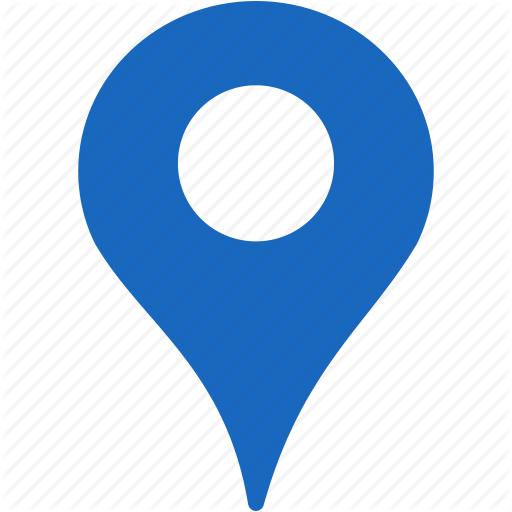
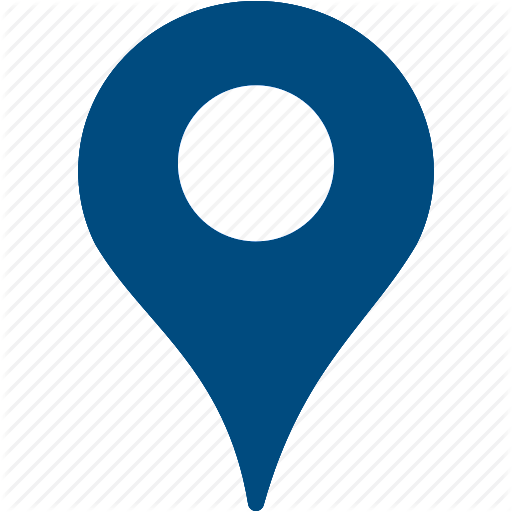
Merge pull request #67 from eea/develop
Develop

Pull request: Develop

diff --git a/src/components/Blocks/DemoSitesExplorer/DemoSitesMap.jsx b/src/components/Blocks/DemoSitesExplorer/DemoSitesMap.jsx
@@ -42,7 +42,7 @@ function DemoSitesMap(props) {
     setMap,
     highlightedIndex,
     setHighlightedIndex,
-    enableMarineMO,
+    mapVariation,
     ol,
   } = props;
   const features = getFeatures({ cases: items, ol });
@@ -135,8 +135,8 @@ function DemoSitesMap(props) {
   }, [map, selectedCase, resetMapButtonClass, setResetMapButtonClass, ol]);
 
   const clusterStyle = React.useMemo(
-    () => selectedClusterStyle({ selectedCase, ol, enableMarineMO }),
-    [selectedCase, ol, enableMarineMO],
+    () => selectedClusterStyle({ selectedCase, ol, mapVariation }),
+    [selectedCase, ol, mapVariation],
   );
 
   const MapWithSelection = React.useMemo(() => Map, []);
@@ -196,7 +196,9 @@ function DemoSitesMap(props) {
             // selectedCase={selectedCase}
           />
           <Layer.Tile source={tileWMSSources[0]} zIndex={0} />
-          {enableMarineMO && <Layer.Tile source={arcgisSource} zIndex={0} />}
+          {['blueParks', 'blueParksObj1'].includes(mapVariation) && (
+            <Layer.Tile source={arcgisSource} zIndex={0} />
+          )}
           <Layer.Vector
             style={clusterStyle}
             source={clusterSource}
@@ -209,7 +211,7 @@ function DemoSitesMap(props) {
   ) : null;
 }
 
-const selectedClusterStyle = ({ selectedFeature, ol, enableMarineMO }) => {
+const selectedClusterStyle = ({ selectedFeature, ol, mapVariation }) => {
   function _clusterStyle(feature, selectedFeature) {
     const size = feature.get('features').length;
     let clusterStyle = styleCache[size];
@@ -235,52 +237,64 @@ const selectedClusterStyle = ({ selectedFeature, ol, enableMarineMO }) => {
       });
       styleCache[size] = clusterStyle;
     }
-    // set size === 1 to enable clusterization
-    if (size) {
-      if (enableMarineMO) {
+    // use condition size === 1 to enable clusterization
+    if (true) {
+      let iconType = '-light';
+      let iconSize = 'icon';
+
+      if ('blueParks' === mapVariation) {
         return new ol.style.Style({
           image: new ol.style.Icon({
             anchor: [0.5, 1],
-            // size: [52, 52],
-            // offset: [52, 0],
-            // opacity: 1,
             scale: 0.8,
             src: '/marine/europe-seas/eu-mission-restore-our-oceans-and-water/icon-point.png/@@images/image/tiny',
           }),
         });
-      } else {
-        // let color = feature.values_.features[0].values_['color'];
-        // type_is_region
-        // let color = '#0179cf';
-        // let width = feature.values_.features[0].values_['width'];
-        // let radius = feature.values_.features[0].values_['radius'];
+      } else if ('blueParksObj1' === mapVariation) {
+        iconType = '-light';
+        iconSize = 'tiny';
 
-        // return new ol.style.Style({
-        //   image: new ol.style.Circle({
-        //     radius: radius,
-        //     fill: new ol.style.Fill({
-        //       color: '#fff',
-        //     }),
-        //     stroke: new ol.style.Stroke({
-        //       color: color,
-        //       width: width,
-        //     }),
-        //   }),
-        // });
-        let iconUrl =
-          feature.values_.features[0].values_['type_is_region'] ===
-          'Associated region'
-            ? '/marine/europe-seas/eu-mission-restore-our-oceans-and-water/icon-region.png/@@images/image/icon'
-            : '/marine/europe-seas/eu-mission-restore-our-oceans-and-water/icon-point.png/@@images/image/icon';
-
-        return new ol.style.Style({
-          image: new ol.style.Icon({
-            anchor: [0.5, 1],
-            scale: 0.8,
-            src: iconUrl,
-          }),
-        });
+        if (
+          ['BioProtect', 'BLUE CONNECT', 'BLUE4ALL', 'EFFECTIVE'].includes(
+            feature.values_.features[0].values_['project'],
+          )
+        ) {
+          iconType = '';
+          iconSize = 'tiny';
+        }
       }
+      // let color = feature.values_.features[0].values_['color'];
+      // type_is_region
+      // let color = '#0179cf';
+      // let width = feature.values_.features[0].values_['width'];
+      // let radius = feature.values_.features[0].values_['radius'];
+
+      // return new ol.style.Style({
+      //   image: new ol.style.Circle({
+      //     radius: radius,
+      //     fill: new ol.style.Fill({
+      //       color: '#fff',
+      //     }),
+      //     stroke: new ol.style.Stroke({
+      //       color: color,
+      //       width: width,
+      //     }),
+      //   }),
+      // });
+
+      let iconUrl =
+        feature.values_.features[0].values_['type_is_region'] ===
+        'Associated region'
+          ? `/marine/europe-seas/eu-mission-restore-our-oceans-and-water/icon-region${iconType}.png/@@images/image/${iconSize}`
+          : `/marine/europe-seas/eu-mission-restore-our-oceans-and-water/icon-point${iconType}.png/@@images/image/${iconSize}`;
+
+      return new ol.style.Style({
+        image: new ol.style.Icon({
+          anchor: [0.5, 1],
+          scale: 0.8,
+          src: iconUrl,
+        }),
+      });
     } else {
       return clusterStyle;
     }

diff --git a/src/components/Blocks/DemoSitesExplorer/utils.js b/src/components/Blocks/DemoSitesExplorer/utils.js
@@ -144,12 +144,7 @@ export function getFeatures({ cases, ol }) {
   });
 }
 
-export function filterCases(
-  cases,
-  activeFilters,
-  indicatorOnly,
-  enableMarineMO,
-) {
+export function filterCases(cases, activeFilters, indicatorOnly, mapVariation) {
   const data = cases.filter((_case) => {
     let flag_objective = false;
     let flag_target = false;
@@ -163,21 +158,20 @@ export function filterCases(
         return item['title'].toString();
       });
       if (indicators?.includes(indicatorOnly)) flag_indicatorOnly = true;
-    } else if (enableMarineMO) {
-      let indicators = _case.properties.indicators?.map((item) => {
-        return item['title'].toString();
-      });
-      if (
-        indicators?.includes('Marine protected areas') ||
-        indicators?.includes('Marine strictly protected areas')
-      )
-        flag_indicatorOnly = true;
     } else {
       flag_indicatorOnly = true;
     }
 
     // debugger;
-    if (!activeFilters.objective_filter.length) {
+    if ('blueParksObj1' === mapVariation) {
+      let objective = _case.properties.objective;
+      if (
+        objective.includes(
+          'Objective 1: Protect and restore marine and freshwater ecosystems and biodiversity',
+        )
+      )
+        flag_objective = true;
+    } else if (!activeFilters.objective_filter.length) {
       flag_objective = true;
     } else {
       let objective = _case.properties.objective;
@@ -209,7 +203,16 @@ export function filterCases(
       });
     }
 
-    if (!activeFilters.project_filter.length) {
+    // BioProtect, BLUE CONNECT, BLUE4ALL, EFFECTIVE
+    if (['blueParks'].includes(mapVariation)) {
+      let project = _case.properties.project;
+      if (
+        ['BioProtect', 'BLUE CONNECT', 'BLUE4ALL', 'EFFECTIVE'].includes(
+          project,
+        )
+      )
+        flag_project = true;
+    } else if (!activeFilters.project_filter.length) {
       flag_project = true;
     } else {
       let project = _case.properties.project;

diff --git a/src/components/Blocks/DemoSitesExplorer/DemoSitesExplorerView.js b/src/components/Blocks/DemoSitesExplorer/DemoSitesExplorerView.js
@@ -19,8 +19,7 @@ export default function DemoSitesExplorerView(props) {
     : '/marine/@@demo-sites-map.arcgis.json';
   let cases = useCases(addAppURL(cases_url));
   const [selectedCase, onSelectedCase] = React.useState(null);
-  const { enableMarineMO } = props.data;
-  // console.log('enableMarineMO', enableMarineMO);
+  const { mapVariation } = props.data;
   const { properties } = props;
   // if the map is rendered on the indicator page we hide the Target and
   // the Indicator filters, and hide the chart on the right side
@@ -39,7 +38,10 @@ export default function DemoSitesExplorerView(props) {
   const [filters, setFilters] = React.useState([]);
   const [map, setMap] = React.useState();
   const [highlightedIndex, setHighlightedIndex] = React.useState(-1);
-  const columnsLength = hideFilters || enableMarineMO ? 12 : 8;
+  const columnsLength =
+    hideFilters || ['blueParks', 'blueParksObj1'].includes(mapVariation)
+      ? 12
+      : 8;
 
   React.useEffect(() => {
     const _filters = getFilters(activeItems, indicatorOnly);
@@ -60,11 +62,11 @@ export default function DemoSitesExplorerView(props) {
       cases,
       activeFilters,
       indicatorOnly,
-      enableMarineMO,
+      mapVariation,
     );
 
     setActiveItems(activeItems);
-  }, [activeFilters, cases, indicatorOnly, enableMarineMO]);
+  }, [activeFilters, cases, indicatorOnly, mapVariation]);
 
   if (__SERVER__) return '';
 
@@ -86,7 +88,7 @@ export default function DemoSitesExplorerView(props) {
           hideFilters={hideFilters}
           setActiveFilters={setActiveFilters}
           highlightedIndex={highlightedIndex}
-          enableMarineMO={enableMarineMO}
+          mapVariation={mapVariation}
         />
       </Grid.Row>
       <Grid.Row>
@@ -108,10 +110,13 @@ export default function DemoSitesExplorerView(props) {
                 setMap={setMap}
                 highlightedIndex={highlightedIndex}
                 setHighlightedIndex={setHighlightedIndex}
-                enableMarineMO={enableMarineMO}
+                mapVariation={mapVariation}
               />
             </Grid.Column>
-            {!(hideFilters || enableMarineMO) ? (
+            {!(
+              hideFilters ||
+              ['blueParks', 'blueParksObj1'].includes(mapVariation)
+            ) ? (
               <Grid.Column
                 mobile={4}
                 tablet={4}
@@ -142,7 +147,7 @@ export default function DemoSitesExplorerView(props) {
                       <div className="circle">
                         {/* <div className="dot-demosite"></div> */}
                         <img
-                          src="/marine/europe-seas/eu-mission-restore-our-oceans-and-water/icon-point.png/@@images/image/small"
+                          src="/marine/europe-seas/eu-mission-restore-our-oceans-and-water/icon-point-light.png/@@images/image/small"
                           alt=""
                         />
                       </div>
@@ -152,7 +157,7 @@ export default function DemoSitesExplorerView(props) {
                       <div className="circle">
                         {/* <div className="dot-region"></div> */}
                         <img
-                          src="/marine/europe-seas/eu-mission-restore-our-oceans-and-water/icon-region.png/@@images/image/small"
+                          src="/marine/europe-seas/eu-mission-restore-our-oceans-and-water/icon-region-light.png/@@images/image/small"
                           alt=""
                         />
                       </div>

diff --git a/src/components/Blocks/DemoSitesExplorer/schema.jsx b/src/components/Blocks/DemoSitesExplorer/schema.jsx
@@ -4,20 +4,28 @@ const DemoSitesExplorerSchema = {
     {
       id: 'default',
       title: 'Default',
-      fields: ['enableMarineMO'],
+      fields: ['mapVariation'],
     },
   ],
 
   properties: {
-    enableMarineMO: {
-      title: 'Enable Marine Protected Areas layer',
+    mapVariation: {
+      title: 'Choose the type of map',
       description:
         'If enabled, the Marine Protected Areas layer will be displayed on the map, without the filters and the chart on the right side',
-      type: 'boolean',
-      default: false,
+      // type: 'boolean',
+      choices: [
+        ['standard', 'Standard map with filters and chart'],
+        ['blueParks', 'Marine protected areas map with Blue Parks projects'],
+        [
+          'blueParksObj1',
+          'Marine protected areas map with Objective 1 and Blue Parks projects',
+        ],
+      ],
+      default: 'standard',
     },
   },
-  required: ['enableMarineMO'],
+  required: ['mapVariation'],
 };
 
 export default DemoSitesExplorerSchema;

diff --git a/src/components/Blocks/DemoSitesExplorer/DemoSitesFilters.jsx b/src/components/Blocks/DemoSitesExplorer/DemoSitesFilters.jsx
@@ -165,7 +165,7 @@ export function DemoSitesFilters(props) {
     hideFilters,
     setActiveFilters,
     highlightedIndex,
-    enableMarineMO,
+    mapVariation,
   } = props;
 
   React.useEffect(() => {
@@ -180,7 +180,7 @@ export function DemoSitesFilters(props) {
     });
   }, []);
 
-  return !enableMarineMO ? (
+  return !['blueParks', 'blueParksObj1'].includes(mapVariation) ? (
     <>
       {!hideFilters ? (
         <DemoSitesFilter

diff --git a/CHANGELOG.md b/CHANGELOG.md
@@ -4,6 +4,19 @@ All notable changes to this project will be documented in this file. Dates are d
 
 Generated by [`auto-changelog`](https://github.com/CookPete/auto-changelog).
 
+### [2.0.36](https://github.com/eea/volto-marine-policy/compare/2.0.35...2.0.36) - 10 November 2025
+
+#### :rocket: New Features
+
+- feat: new variation for Demo sites explorer [laszlocseh - [`58799b2`](https://github.com/eea/volto-marine-policy/commit/58799b23a8c0ff0f34ff2aeee8991113baaaa3d9)]
+
+#### :house: Internal changes
+
+- style: Automated code fix [eea-jenkins - [`db0e43a`](https://github.com/eea/volto-marine-policy/commit/db0e43a4def21dddc41640173ff963ad97b6d32a)]
+
+#### :hammer_and_wrench: Others
+
+- fix demo sites map [laszlocseh - [`b4e676a`](https://github.com/eea/volto-marine-policy/commit/b4e676a445bcee52dc74b36662c36e149c74c841)]
 ### [2.0.35](https://github.com/eea/volto-marine-policy/compare/2.0.34...2.0.35) - 3 November 2025
 
 #### :rocket: New Features